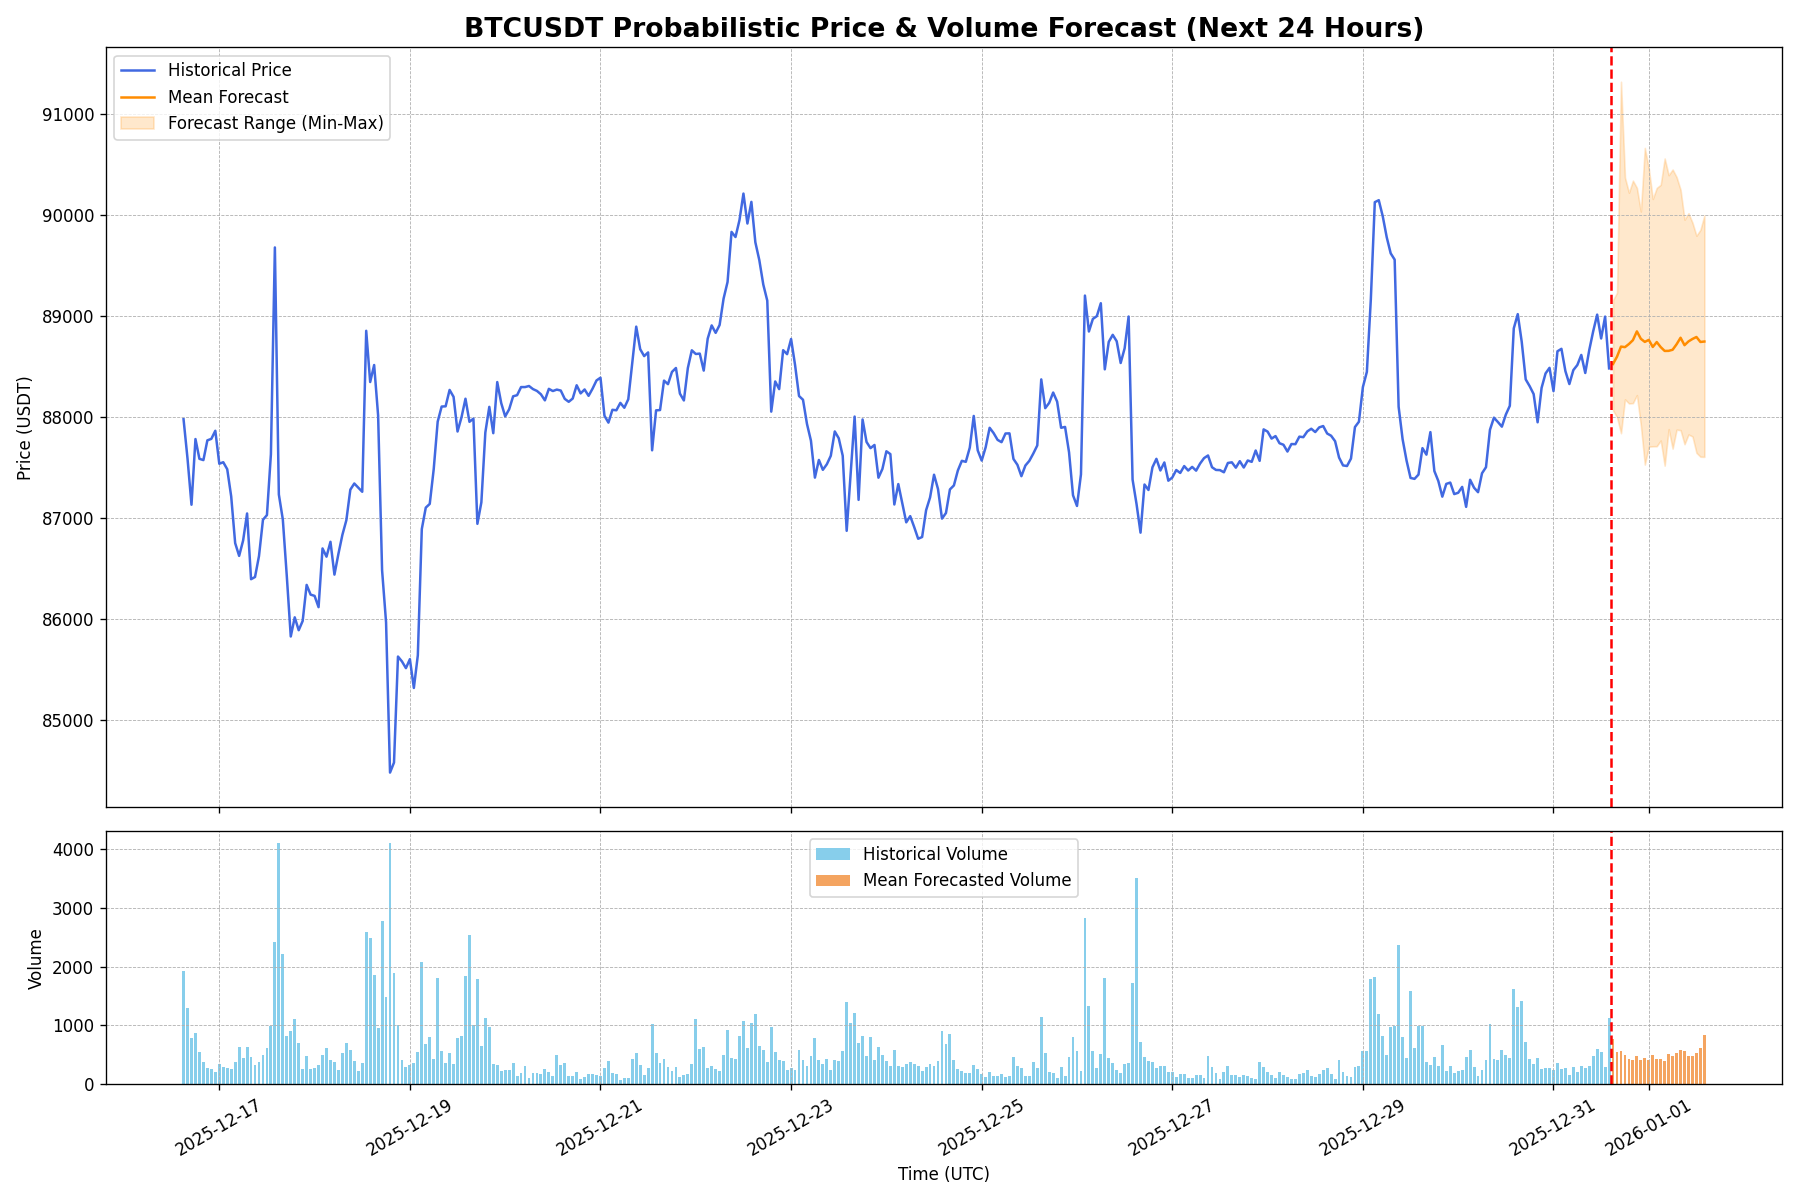
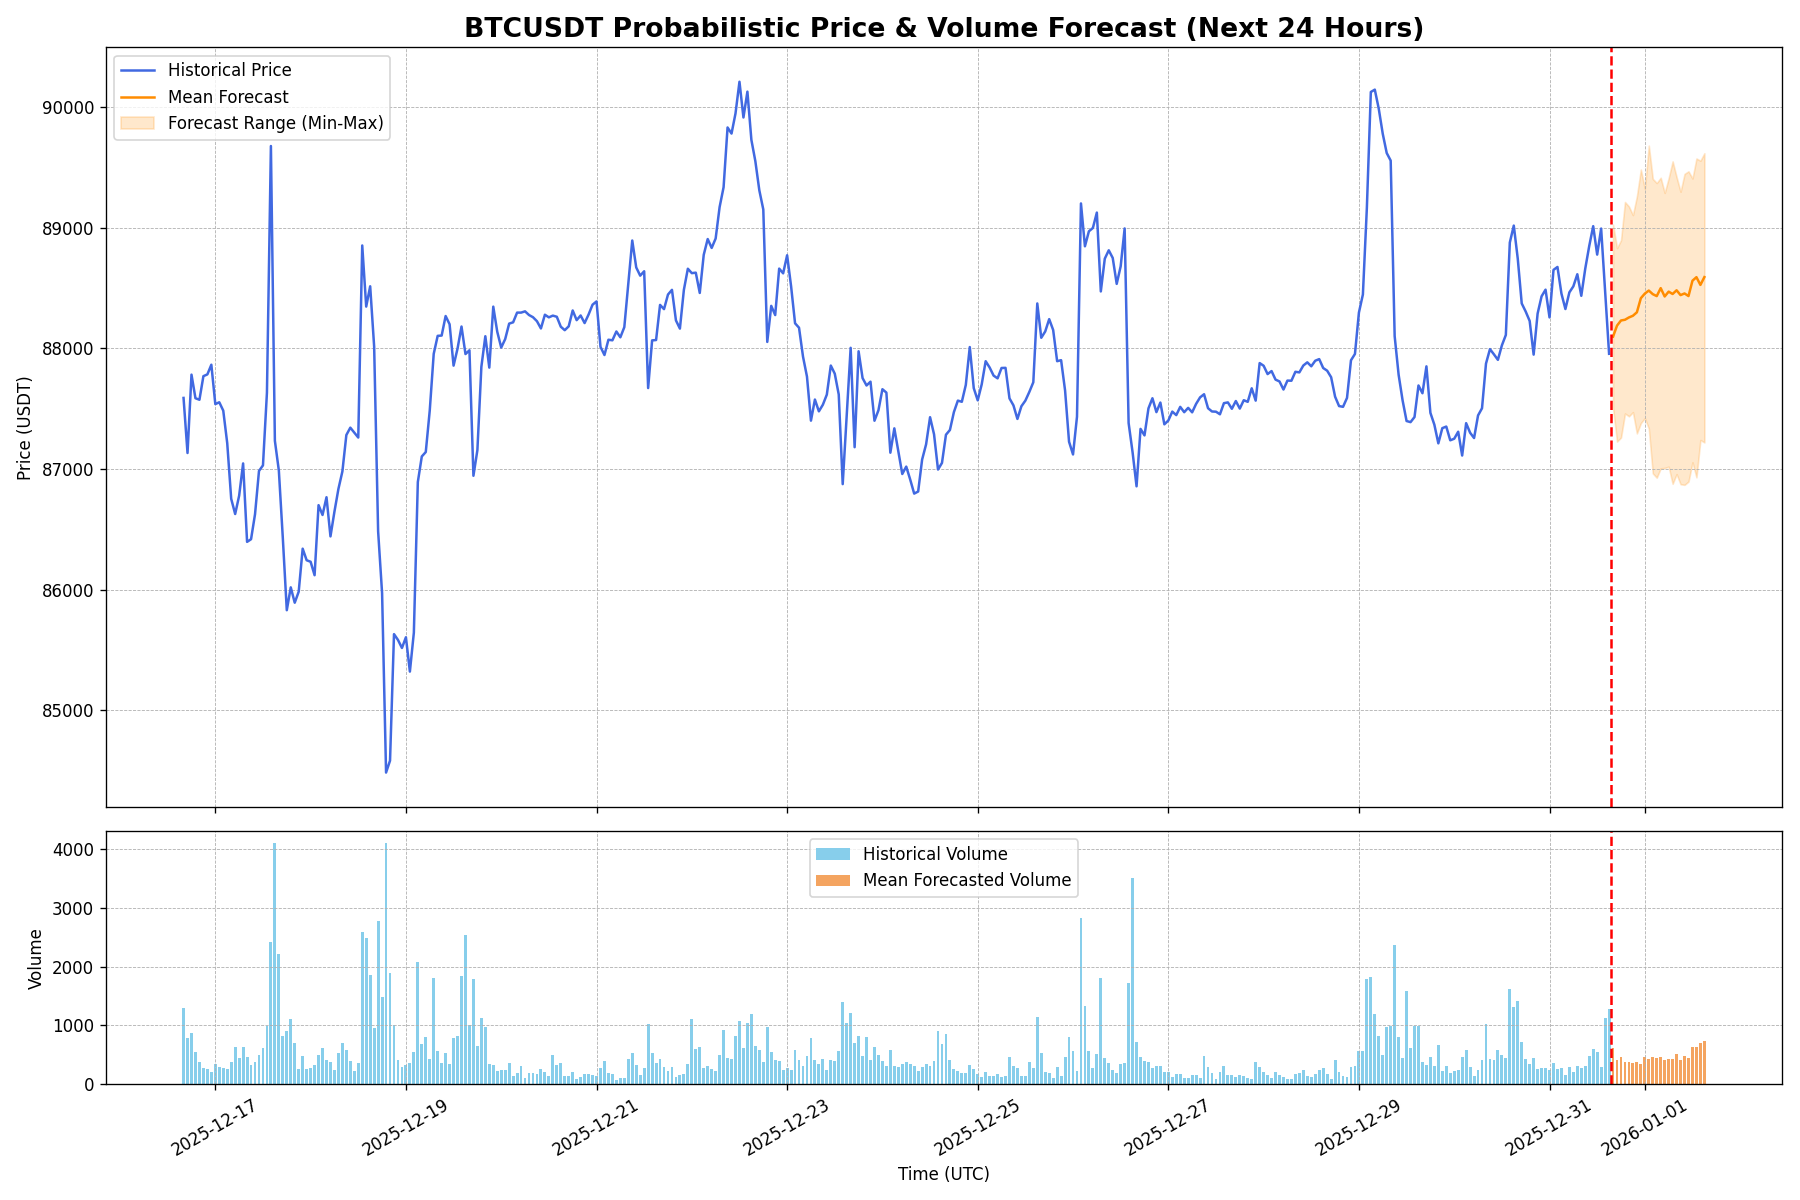
Auto-update forecast for 2025-12-31 16:00 UTC

diff --git a/index.html b/index.html
@@ -22,19 +22,19 @@
         <section id="live-dashboard">
             <h2>Live BTC/USDT Forecast Dashboard</h2>
             <div class="metadata">
-                <span>Last Updated (UTC): <strong id="update-time">2025-12-31 15:00:46</strong></span>
+                <span>Last Updated (UTC): <strong id="update-time">2025-12-31 16:00:26</strong></span>
                 <span>Data Source: Binance | Interval: 1-Hour</span>
             </div>
 
             <div class="metrics-container">
                 <div class="metric-card">
                     <h3>Upside Probability (Next 24h)</h3>
-                    <p class="metric-value" id="upside-prob">70.0%</p>
+                    <p class="metric-value" id="upside-prob">83.3%</p>
                     <div class="metric-desc">The model's confidence that the price in 24 hours will be higher than the last known price.</div>
                 </div>
                 <div class="metric-card">
                     <h3>Volatility Amplification (Next 24h)</h3>
-                    <p class="metric-value" id="vol-amp-prob">46.7%</p>
+                    <p class="metric-value" id="vol-amp-prob">36.7%</p>
                     <div class="metric-desc">The probability that predicted volatility over the next 24h will exceed recent historical volatility.</div>
                 </div>
             </div>
